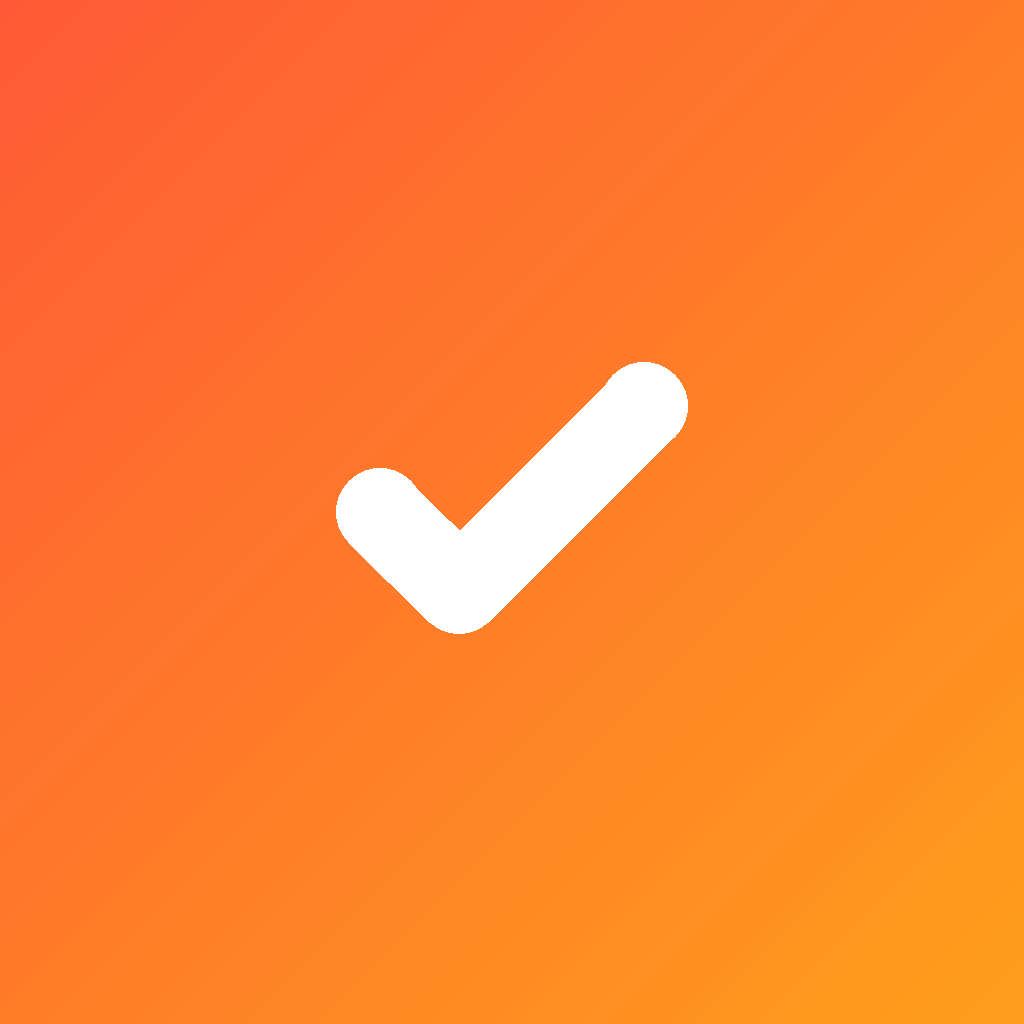
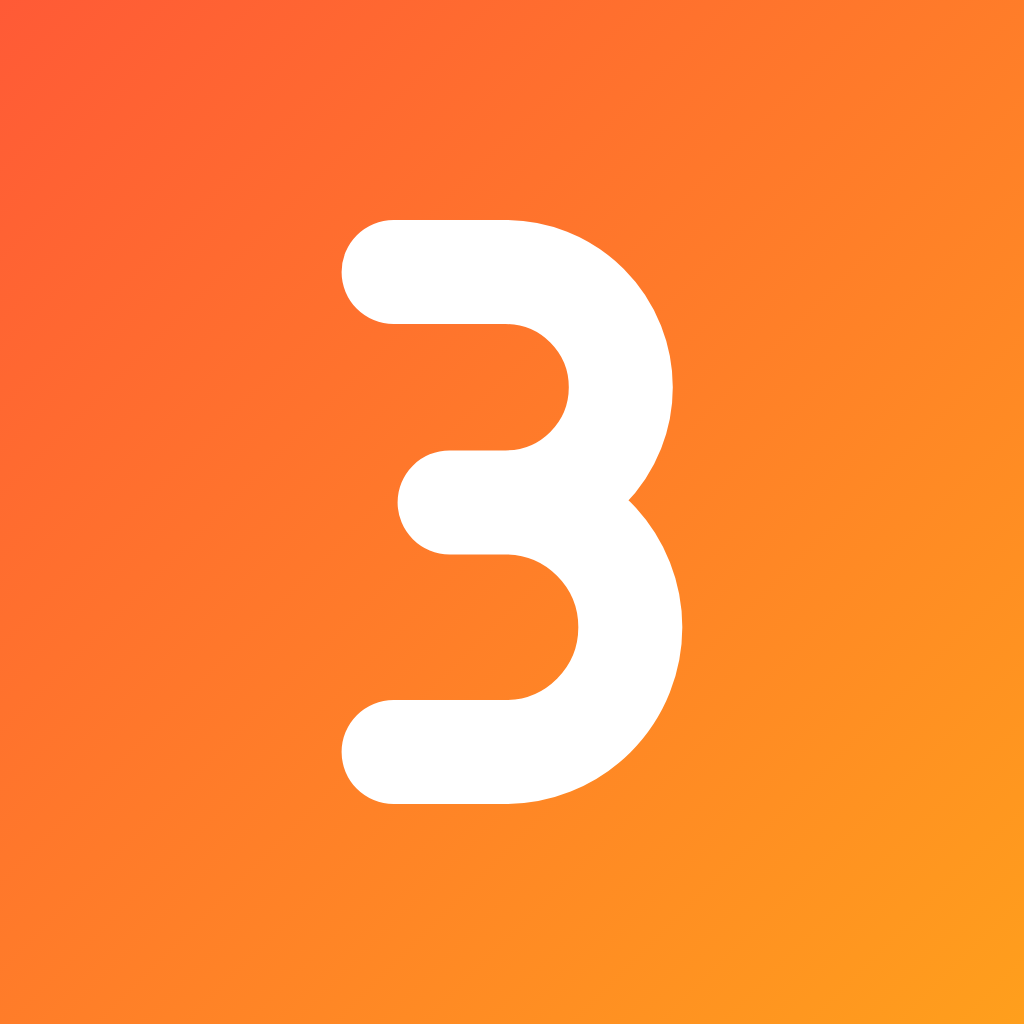
Add files via upload

Changed region(s): [[0.3125, 0.4375, 0.6875, 0.8125], [0.3125, 0.1875, 0.6562, 0.4375], [0.625, 0.375, 0.6875, 0.4688]]

diff --git a/widgets.dart b/widgets.dart
@@ -474,9 +474,46 @@ class Logo extends StatelessWidget {
         gradient: LinearGradient(colors: [p.ac, p.ac2], begin: Alignment.topLeft, end: Alignment.bottomRight),
         borderRadius: BorderRadius.circular(size * .3),
       ),
-      child: Icon(Icons.check_rounded, color: Colors.white, size: size * .68),
+      child: CustomPaint(size: Size(size, size), painter: ZPainter()),
     );
   }
+}
+
+// Знак «З» (логотип ЗадаЧО). t от 0 до 1 — дорисовка по мере анимации заставки.
+class ZPainter extends CustomPainter {
+  final double t;
+  const ZPainter([this.t = 1]);
+
+  @override
+  void paint(Canvas canvas, Size s) {
+    final k = s.width / 64;
+    Offset o(double x, double y) => Offset((x + .6) * k, y * k);
+    final paint = Paint()
+      ..color = Colors.white
+      ..style = PaintingStyle.stroke
+      ..strokeWidth = 6.5 * k
+      ..strokeCap = StrokeCap.round
+      ..strokeJoin = StrokeJoin.round;
+    final path = Path()
+      ..moveTo(o(24, 17).dx, o(24, 17).dy)
+      ..lineTo(o(31, 17).dx, o(31, 17).dy)
+      ..arcToPoint(o(31, 31.4), radius: Radius.circular(7.2 * k), clockwise: true)
+      ..arcToPoint(o(31, 47), radius: Radius.circular(7.8 * k), clockwise: true)
+      ..lineTo(o(24, 47).dx, o(24, 47).dy);
+    final tt = t.clamp(0.0, 1.0);
+    for (final m in path.computeMetrics()) {
+      canvas.drawPath(m.extractPath(0, m.length * tt), paint);
+    }
+    if (tt > .8) {
+      final mid = Path()
+        ..moveTo(o(31, 31.4).dx, o(31, 31.4).dy)
+        ..lineTo(o(27.5, 31.4).dx, o(27.5, 31.4).dy);
+      canvas.drawPath(mid, paint);
+    }
+  }
+
+  @override
+  bool shouldRepaint(ZPainter old) => old.t != t;
 }
 
 class GradText extends StatelessWidget {

diff --git a/splash.dart b/splash.dart
@@ -100,7 +100,7 @@ class _SplashState extends State<_Splash> with SingleTickerProviderStateMixin {
                         borderRadius: BorderRadius.circular(29),
                         boxShadow: [BoxShadow(color: p.ac.withOpacity(.35), blurRadius: 34, offset: const Offset(0, 12))],
                       ),
-                      child: CustomPaint(size: const Size(96, 96), painter: _CheckPainter(check.value)),
+                      child: CustomPaint(size: const Size(96, 96), painter: ZPainter(check.value)),
                     ),
                   ),
                 ),
@@ -133,30 +133,4 @@ class _SplashState extends State<_Splash> with SingleTickerProviderStateMixin {
       ),
     );
   }
-}
-
-// Галочка, которая дорисовывается по мере анимации
-class _CheckPainter extends CustomPainter {
-  final double t;
-  _CheckPainter(this.t);
-
-  @override
-  void paint(Canvas canvas, Size s) {
-    final path = Path()
-      ..moveTo(s.width * .29, s.height * .53)
-      ..lineTo(s.width * .43, s.height * .67)
-      ..lineTo(s.width * .72, s.height * .35);
-    final paint = Paint()
-      ..color = Colors.white
-      ..style = PaintingStyle.stroke
-      ..strokeWidth = s.width * .09
-      ..strokeCap = StrokeCap.round
-      ..strokeJoin = StrokeJoin.round;
-    for (final m in path.computeMetrics()) {
-      canvas.drawPath(m.extractPath(0, m.length * t.clamp(0.0, 1.0)), paint);
-    }
-  }
-
-  @override
-  bool shouldRepaint(_CheckPainter old) => old.t != t;
 }

diff --git a/icons.dart b/icons.dart
@@ -6,7 +6,7 @@ import 'package:flutter_svg/flutter_svg.dart';
 const Map<String, String> _body = {
   'bell': '<path d="M6 9a6 6 0 0 1 12 0c0 6 2.5 7.5 2.5 7.5h-17S6 15 6 9zM10 20a2 2 0 0 0 4 0"/>',
   'bello': '<path d="M8.5 4.6A6 6 0 0 1 18 9c0 3 .7 4.9 1.5 6M6 9c0 6-2.5 7.5-2.5 7.5H15M10 20a2 2 0 0 0 4 0M3 3l18 18"/>',
-  'logo': '<rect x="3" y="3" width="18" height="18" rx="6"/><path d="M8 12l3 3 5-6"/>',
+  'logo': '<rect x=\"3\" y=\"3\" width=\"18\" height=\"18\" rx=\"6\"/><path d=\"M9.5 8H12.1A1.9 1.9 0 0 1 12.1 11.8A2.1 2.1 0 0 1 12.1 16H9.5M12.1 11.8H11\"/>',
   'search': '<circle cx="11" cy="11" r="7"/><path d="m20 20-4-4"/>',
   'sun': '<circle cx="12" cy="12" r="4"/><path d="M12 2v2M12 20v2M4.9 4.9l1.4 1.4M17.7 17.7l1.4 1.4M2 12h2M20 12h2M4.9 19.1l1.4-1.4M17.7 6.3l1.4-1.4"/>',
   'moon': '<path d="M21 12.8A9 9 0 1 1 11.2 3a7 7 0 0 0 9.8 9.8z"/>',

diff --git a/configure_android.py b/configure_android.py
@@ -3,7 +3,7 @@
 Что делает:
   1. добавляет разрешения INTERNET, ACCESS_COARSE/FINE_LOCATION (геолокация «рядом»), RECORD_AUDIO, POST_NOTIFICATIONS, RECEIVE_BOOT_COMPLETED, WAKE_LOCK, VIBRATE и запросы для звонков/ссылок;
   2. ставит название приложения «ЗадаЧО»;
-  3. создаёт алиас значка (оранжевый) и векторную иконку уведомлений ic_stat_zadacho (галочка ЗадаЧО + цветная крупная иконка приложения);
+  3. создаёт алиас значка (оранжевый) и векторную иконку уведомлений ic_stat_zadacho (знак «З» ЗадаЧО + цветная крупная иконка приложения);
   4. подключает Firebase Cloud Messaging (сервис ZadaChoFcmService): пуши приходят от сервера даже когда приложение полностью закрыто;
   5. пишет MainActivity с MethodChannel 'ru.zadacho.app/launcher_icon', 'ru.zadacho.app/notify' (включая нативную лёгкую вибрацию 'haptic'), ярлыками значка и записью/воспроизведением голоса.
 Любая ошибка останавливает сборку с понятным сообщением.
@@ -143,17 +143,20 @@ for name in ('icon_orange',):
         die('Нет файла %s' % src)
     shutil.copy(src, res / (name + '.png'))
 
-# Векторный силуэт логотипа «ЗадаЧО» (галочка в контуре) для статус-бара Android, чтобы не было белого квадрата
+# Векторный силуэт знака «З» для статус-бара Android (монохромная маска, чтобы не было белого квадрата)
 (res / 'ic_stat_zadacho.xml').write_text(
     '<?xml version="1.0" encoding="utf-8"?>\n'
     '<vector xmlns:android="http://schemas.android.com/apk/res/android"\n'
     '    android:width="24dp"\n'
     '    android:height="24dp"\n'
-    '    android:viewportWidth="24"\n'
-    '    android:viewportHeight="24">\n'
+    '    android:viewportWidth="36"\n'
+    '    android:viewportHeight="36">\n'
     '    <path\n'
-    '        android:fillColor="#FFFFFFFF"\n'
-    '        android:pathData="M19,3H5C3.34,3 2,4.34 2,6v12c0,1.66 1.34,3 3,3h14c1.66,0 3,-1.34 3,-3V6C22,4.34 20.66,3 19,3zM10.2,16.6L5.8,12.2l1.7,-1.7l2.7,2.7l6.3,-6.3l1.7,1.7L10.2,16.6z"/>\n'
+    '        android:strokeColor="#FFFFFFFF"\n'
+    '        android:strokeWidth="7"\n'
+    '        android:strokeLineCap="round"\n'
+    '        android:strokeLineJoin="round"\n'
+    '        android:pathData="M10.6,3 H17.6 A7.2,7.2 0 0 1 17.6,17.4 A7.8,7.8 0 0 1 17.6,33 H10.6 M17.6,17.4 H14.1"/>\n'
     '</vector>\n',
     encoding='utf-8'
 )
